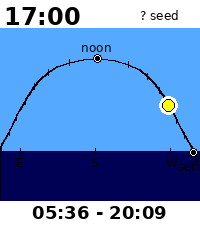
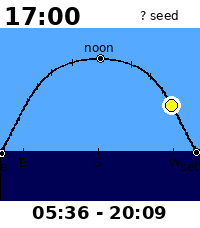
Smoother arc: 6x sample density + colour-path anti-aliasing
Bumped ARC_SAMPLE_STEP_MIN from 30 to 5, so the cached arc is now 289
points (every 5 minutes of the local day) instead of 49. Consecutive
samples land within ~1 px of each other in screen space at any
heading on the 144-wide canvas, eliminating the "hand-drawn / wobbly"
look that the 30-min stride produced. Memory cost is +2.9 KB
(.bss footprint: 24.4 KB total used on diorite vs ~30 KB before -
removing two unused helpers freed enough to absorb the increase).

On colour displays (emery), draw_arc now wraps its line calls with
graphics_context_set_antialiased(true) so the SDK rasteriser uses
its built-in line AA; on diorite this macro is a no-op and the line
just stays 1-bit. The Newton-Raphson sun_position calls are still
~50 us each so a 289-sample recompute is ~15 ms - well inside the
one-second redraw budget on a minute-tick or compass update.

preview_emery.py mirrors the new sample step so the colour mockup
matches what the watch produces. All committed screenshots
regenerated.

diff --git a/src/c/ui_arc.c b/src/c/ui_arc.c
@@ -54,9 +54,9 @@ void ui_arc_recompute(const geo_fix_t *fix) {
         s_now_utc ? s_now_utc : (int64_t)(int32_t)time(NULL), fix->tz_offset_min);
     s_tz_offset_min = fix->tz_offset_min;
     for (int i = 0; i < ARC_SAMPLE_COUNT; i++) {
-        int64_t t = s_local_midnight_utc + (int64_t)i * 1800;
+        int64_t t = s_local_midnight_utc + (int64_t)i * (ARC_SAMPLE_STEP_MIN * 60);
         sun_position_t p = sun_position(t, fix->lat_deg, fix->lon_deg);
-        s_samples[i].minutes_from_local_midnight = (int16_t)(i * 30);
+        s_samples[i].minutes_from_local_midnight = (int16_t)(i * ARC_SAMPLE_STEP_MIN);
         s_samples[i].altitude_deg = p.altitude;
         s_samples[i].azimuth_deg  = p.azimuth;
     }
@@ -163,9 +163,9 @@ static void sun_at_now(int64_t now_utc, float *az, float *alt) {
     int minutes = (int)((now_utc - s_local_midnight_utc) / 60);
     if (minutes < 0) minutes = 0;
     if (minutes > 1440) minutes = 1440;
-    int idx = minutes / 30;
+    int idx = minutes / ARC_SAMPLE_STEP_MIN;
     if (idx >= ARC_SAMPLE_COUNT - 1) idx = ARC_SAMPLE_COUNT - 2;
-    float f = (float)(minutes - idx * 30) / 30.0f;
+    float f = (float)(minutes - idx * ARC_SAMPLE_STEP_MIN) / (float)ARC_SAMPLE_STEP_MIN;
     /* Linear interp for altitude. */
     *alt = s_samples[idx].altitude_deg
          + (s_samples[idx + 1].altitude_deg - s_samples[idx].altitude_deg) * f;
@@ -257,6 +257,10 @@ static void draw_arc_segment(GContext *ctx, GRect b,
 
 static void draw_arc(GContext *ctx, GRect b) {
     if (!s_samples_valid) return;
+#if defined(PBL_COLOR)
+    /* Anti-aliased lines on Time 2 / colour displays. No-op on diorite. */
+    graphics_context_set_antialiased(ctx, true);
+#endif
     for (int i = 1; i < ARC_SAMPLE_COUNT; i++) {
         float off0 = az_offset_deg(s_samples[i - 1].azimuth_deg);
         float off1 = az_offset_deg(s_samples[i].azimuth_deg);
@@ -264,6 +268,9 @@ static void draw_arc(GContext *ctx, GRect b) {
                          off0, s_samples[i - 1].altitude_deg,
                          off1, s_samples[i].altitude_deg);
     }
+#if defined(PBL_COLOR)
+    graphics_context_set_antialiased(ctx, false);
+#endif
 }
 
 static int16_t event_to_local_minutes(int64_t event_unix_utc) {
@@ -280,9 +287,9 @@ static int16_t event_to_local_minutes(int64_t event_unix_utc) {
 static void sun_at_minutes(int minutes, float *az, float *alt) {
     if (minutes < 0) minutes = 0;
     if (minutes > 1440) minutes = 1440;
-    int idx = minutes / 30;
+    int idx = minutes / ARC_SAMPLE_STEP_MIN;
     if (idx >= ARC_SAMPLE_COUNT - 1) idx = ARC_SAMPLE_COUNT - 2;
-    float f = (float)(minutes - idx * 30) / 30.0f;
+    float f = (float)(minutes - idx * ARC_SAMPLE_STEP_MIN) / (float)ARC_SAMPLE_STEP_MIN;
     *alt = s_samples[idx].altitude_deg
          + (s_samples[idx + 1].altitude_deg - s_samples[idx].altitude_deg) * f;
     float a = s_samples[idx].azimuth_deg;
@@ -319,9 +326,9 @@ static void draw_endpoint(GContext *ctx, GRect b, int local_minutes,
 /* Interpolate (az, alt) at any minute-of-the-local-day. Caller has
  * already validated 0 <= minutes <= 1440. */
 static void sun_at_minutes_simple(int minutes, float *az, float *alt) {
-    int idx = minutes / 30;
+    int idx = minutes / ARC_SAMPLE_STEP_MIN;
     if (idx >= ARC_SAMPLE_COUNT - 1) idx = ARC_SAMPLE_COUNT - 2;
-    float f = (float)(minutes - idx * 30) / 30.0f;
+    float f = (float)(minutes - idx * ARC_SAMPLE_STEP_MIN) / (float)ARC_SAMPLE_STEP_MIN;
     *alt = s_samples[idx].altitude_deg
          + (s_samples[idx + 1].altitude_deg - s_samples[idx].altitude_deg) * f;
     float a = s_samples[idx].azimuth_deg;

diff --git a/test/preview_emery.py b/test/preview_emery.py
@@ -24,7 +24,8 @@ HORIZON_FRAC_DEN = 100
 ALT_TOP_DEG    = 90.0
 ALT_BOTTOM_DEG = -20.0
 FOV_DEG        = 240.0
-ARC_SAMPLE_COUNT = 49
+ARC_SAMPLE_STEP_MIN = 5
+ARC_SAMPLE_COUNT = 1440 // ARC_SAMPLE_STEP_MIN + 1   # 289
 
 # Pebble GColor* approximations (the Pebble color palette is a 6-bit cube).
 COLOR_PICTON_BLUE  = (85, 170, 255)     # GColorPictonBlue
@@ -129,7 +130,7 @@ def render(now_utc, lat, lon, tz_offset_min, heading_deg=None, out_path="/tmp/em
     local_midnight = ((now_utc + tz_offset_min * 60) // 86400) * 86400 - tz_offset_min * 60
     samples = []
     for i in range(ARC_SAMPLE_COUNT):
-        t = local_midnight + i * 1800
+        t = local_midnight + i * (ARC_SAMPLE_STEP_MIN * 60)
         az, alt = sun_position(t, lat, lon)
         samples.append((az, alt))
 

diff --git a/src/c/ui_arc.h b/src/c/ui_arc.h
@@ -14,7 +14,12 @@ typedef struct {
     float   azimuth_deg;
 } arc_sample_t;
 
-#define ARC_SAMPLE_COUNT 49  /* every 30 minutes across the local day */
+/* Sample cadence in minutes. Smaller -> smoother arc but more memory.
+ * 5 min => 289 samples => ~3.4 KB; pixel-perfect on the diorite's 144-
+ * wide canvas at any heading because consecutive samples are at most
+ * ~1 px apart in screen space. */
+#define ARC_SAMPLE_STEP_MIN  5
+#define ARC_SAMPLE_COUNT     (1440 / ARC_SAMPLE_STEP_MIN + 1)  /* 289 */
 
 /* Recompute the day's arc samples and events for the given fix. Call
  * whenever the fix changes or the local day rolls over. */
